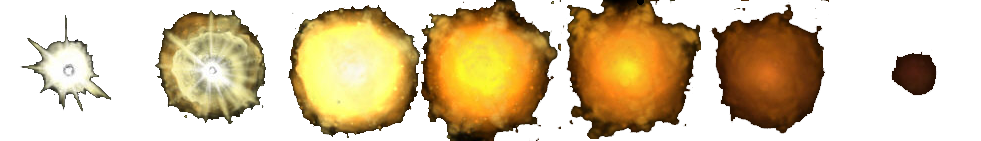
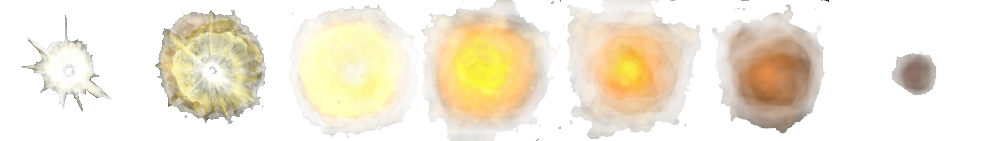
more gameplay tweaks and texture cleanup

diff --git a/MonoGameWinDeskApp/Player.cs b/MonoGameWinDeskApp/Player.cs
@@ -33,17 +33,17 @@ namespace MyFirstGame
         public Timer invincibleBulletPowerUpTimeoutTimer;
         public Timer speedPowerUpTimeoutTimer;
         public Timer superBombTimer;
-        public static float defaultSuperBombFrequency = 500; // half a second
-        public static float defaultProjectileFrequency = 55; //in miliseconds
+        public static float defaultSuperBombFrequency = 500; // 500 = .5 seconds 
+        public static float defaultProjectileFrequency = 45; // in miliseconds
         public int projectileSpeed;
-        public static int defaultProjectileSpeed = 30;
+        public static int defaultProjectileSpeed = 31;
         public int headExplodeCounter;
-        public static int defaultSpeed = 7;
+        public static int defaultSpeed = 6;
         public int superBombs = 0;
 
 		// Power up times
         public double shieldTimeAfterDeath = 230;
-        public double shieldTimeFromShieldPowerUp = 1200;
+        public double shieldTimeFromShieldPowerUp = 1800;
 
 		// Textures
         public Texture2D shieldSprite;
